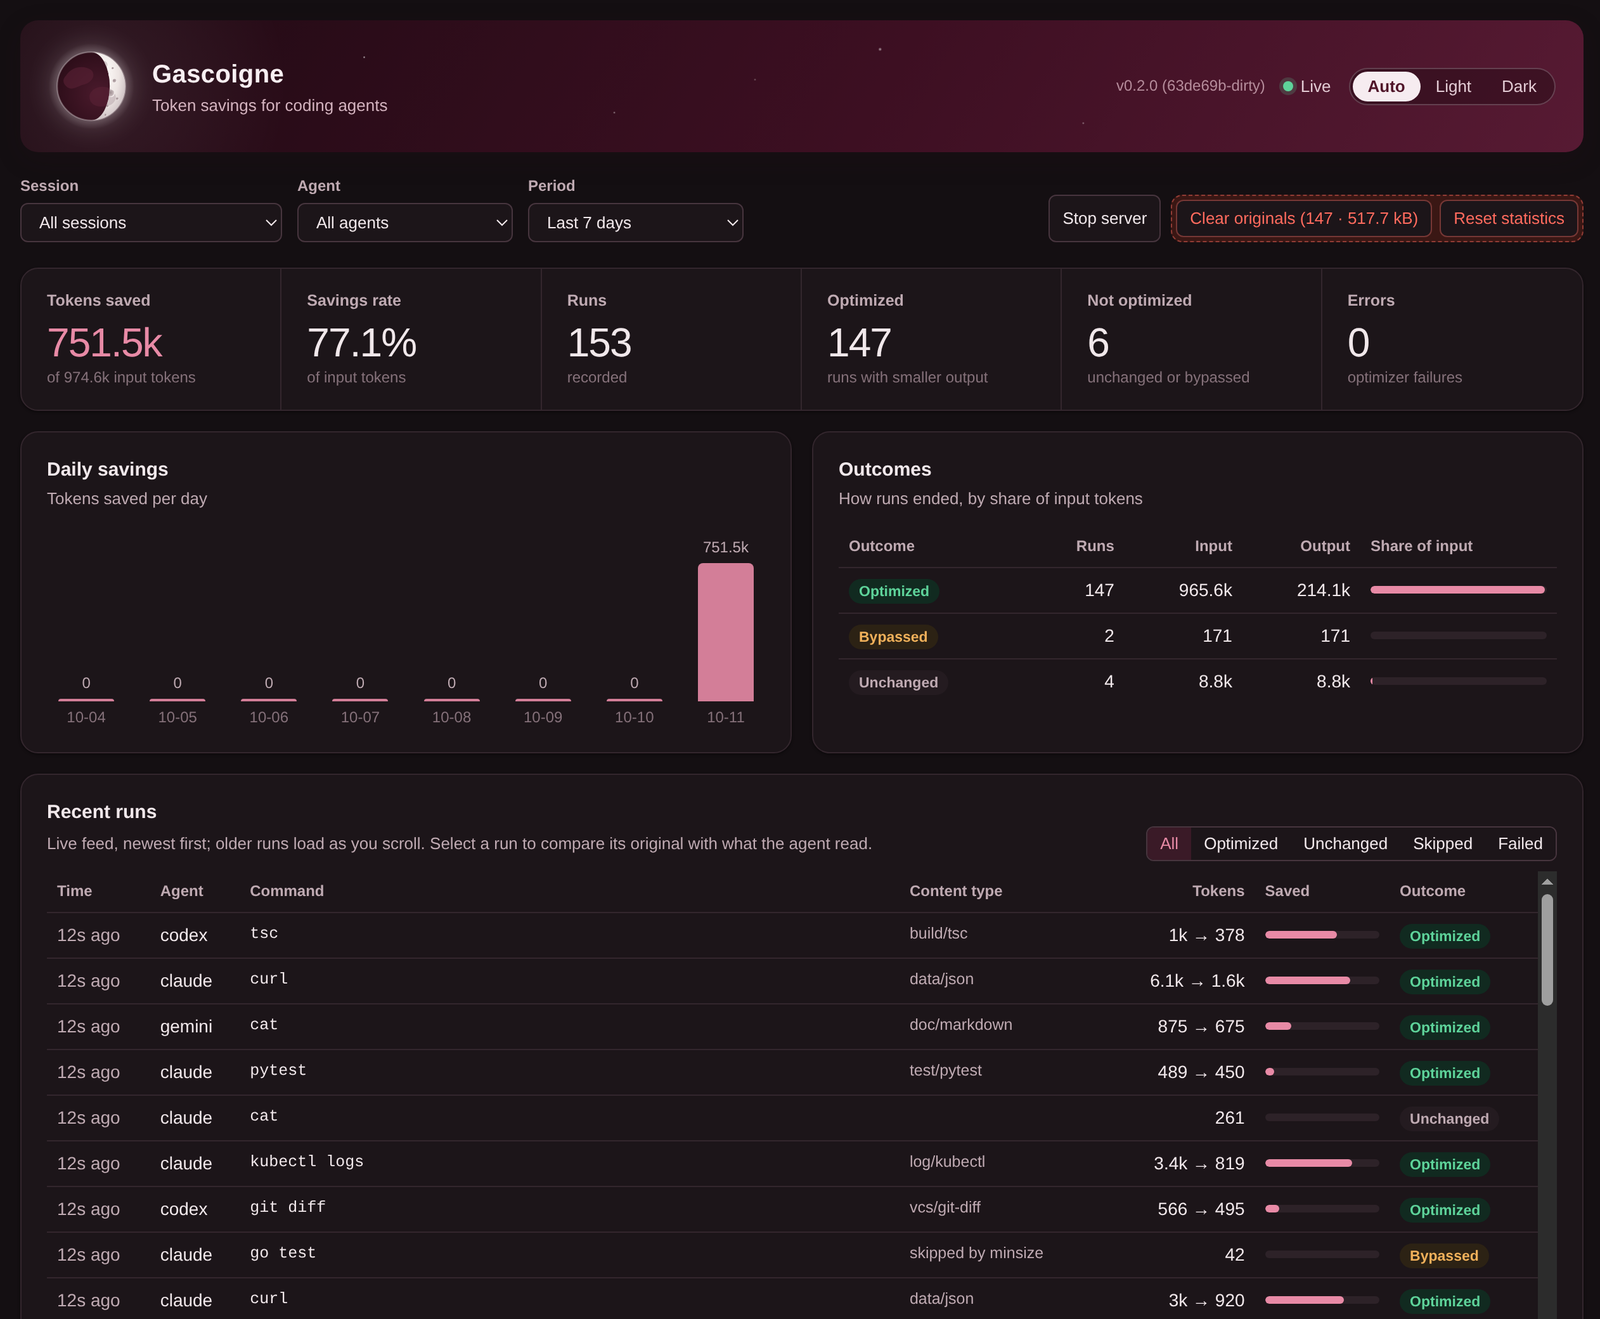
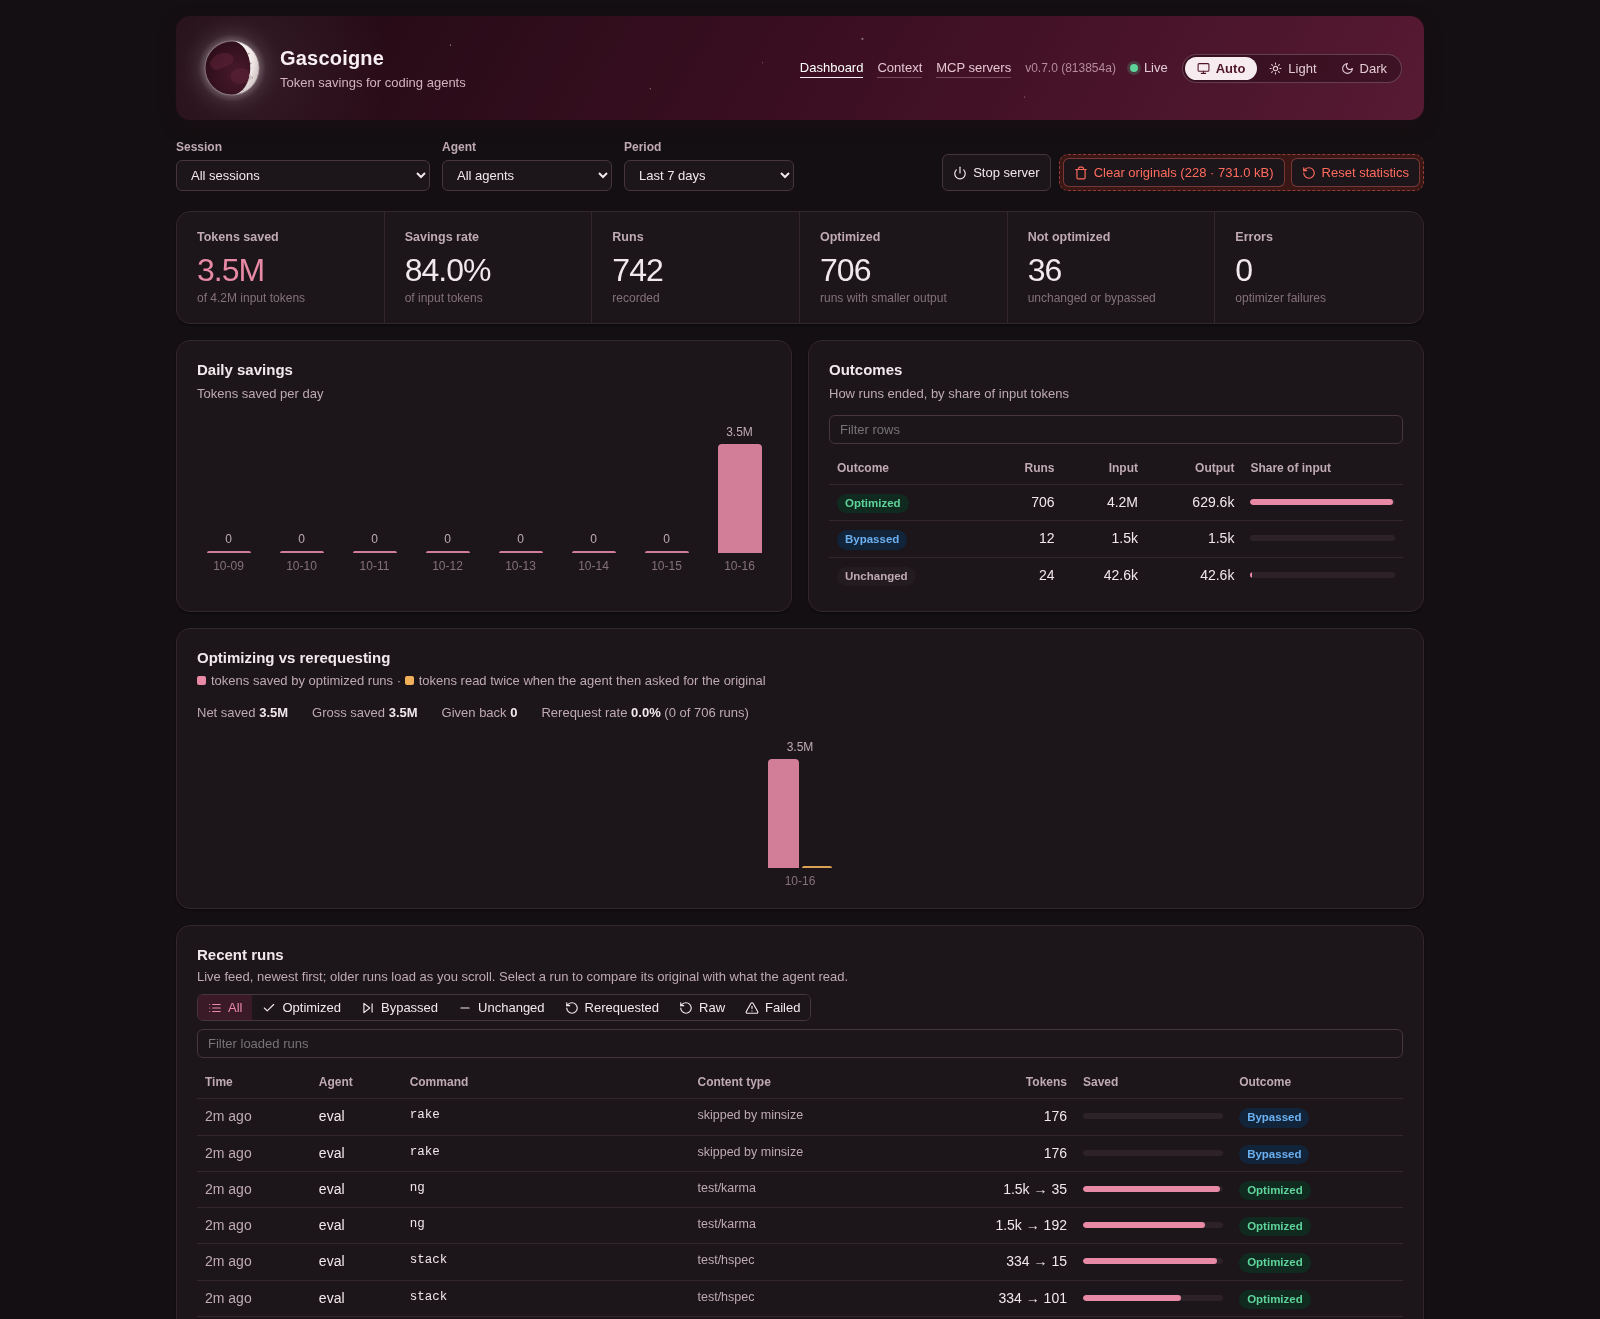
Base every number on the eval, refresh the dashboard screenshots
The headline tiles now give the median (62%) and the total (81%) of the
244 eval cases with the middle half (39 to 82%), instead of a 70 to 99%
range and figures from real sessions and prices. Three table rows follow
the current eval, the aside lists medians by area, and the release
check is described as hourly. The dashboard screenshots come from an
eval run on 0.7.0.

diff --git a/index.html b/index.html
@@ -374,22 +374,22 @@ Use the aws_s3_bucket_acl <span class="tk-kw">resource</span> instead
   <p class="slogan"><b>Telemetry first.</b> Every saving is measured before it is claimed: the ledger records each
     original and each optimized result, and the local dashboard and <code>gascoigne tokens</code> show the numbers.</p>
   <ul class="benefits">
-    <li><strong>70–99%</strong><b>Fewer tokens</b>
-      <span>off verbose output: installs, test runs, logs, traces. The median eval case shrinks by 69%.</span></li>
-    <li><strong>$31<small>/MTok</small></strong><b>Lower cost</b>
-      <span>a saved token's worth on Opus 5.5: each tool result is re-read by a median 110 later requests.</span></li>
-    <li><strong>4–27%</strong><b>Longer sessions</b>
-      <span>less tool output per real coding session (median 10%), so the context window fills more slowly.</span></li>
+    <li><strong>62%</strong><b>Median saving</b>
+      <span>of the 244 eval cases. Outputs under 200 tokens pass through untouched.</span></li>
+    <li><strong>81%</strong><b>Of all eval tokens</b>
+      <span>1.43M tokens in, 0.28M out. The biggest outputs are also the noisiest, so the total is higher than the median.</span></li>
+    <li><strong>39–82%</strong><b>Middle half of cases</b>
+      <span>a quarter of cases save less than 39%, 16 are not shortened. It depends on the tool.</span></li>
     <li><strong>1 call</strong><b>Nothing lost</b>
       <span>every original is stored first; <code>gascoigne raw &lt;id&gt;</code> brings it back, whole or just the lines you need.</span></li>
     <li><strong>Local</strong><b>Stays on your machine</b>
-      <span>the ledger and dashboard are local; nothing is sent anywhere except an optional daily release check you can <a href="releases/0.3.0/#notice">turn off</a>.</span></li>
+      <span>the ledger and dashboard are local; nothing is sent anywhere except an optional hourly release check you can <a href="releases/0.3.0/#notice">turn off</a>.</span></li>
     <li><strong>Same output</strong><b>Deterministic</b>
       <span>for the same input, every time, so prompt caches stay warm, through the LLM proxy too.</span></li>
   </ul>
-  <p class="fine">Eval numbers are an upper bound for the tools gascoigne knows; the real-use and cost figures
-    come from Claude Code sessions. Details under <a href="#savings">what it saves</a> and in
-    <a href="https://github.com/gascoigne-ai/gascoigne-cli/blob/master/docs/cost.md">cost</a>.</p>
+  <p class="fine">All numbers on this page come from the eval fixtures (<code>make eval</code>): real-shaped output of
+    the tools gascoigne knows. Read them as an upper bound for those tools, not a forecast for your sessions.
+    Details under <a href="#savings">what it saves</a>; <code>gascoigne gain</code> shows your own.</p>
 
   <div class="oss" id="open-source">
     <h3>Open source, free to use</h3>
@@ -404,7 +404,7 @@ Use the aws_s3_bucket_acl <span class="tk-kw">resource</span> instead
         <a href="https://github.com/gascoigne-ai">github.com/gascoigne-ai</a>. Ideas taken from other projects are
         credited under <a href="#inspirations">standing on good ideas</a>.</li>
     </ul>
-    <p class="fine">Privacy: the ledger and dashboard stay on your machine. The one optional request, a daily read of a small release file from this site, can be <a href="releases/0.3.0/#notice">turned off</a>.</p>
+    <p class="fine">Privacy: the ledger and dashboard stay on your machine. The one optional request, an hourly read of a small release file from this site, can be <a href="releases/0.3.0/#notice">turned off</a>.</p>
   </div>
 </section>
 
@@ -695,8 +695,8 @@ Use the aws_s3_bucket_acl <span class="tk-kw">resource</span> instead
   <article class="feat" id="dashboard">
     <figure class="shot-fig">
       <picture>
-        <source srcset="assets/dashboard-dark.png" media="(prefers-color-scheme: dark)">
-        <img class="shot" src="assets/dashboard-light.png" width="1600" height="1319" loading="lazy"
+        <source srcset="assets/dashboard-dark.png?v=20261016" media="(prefers-color-scheme: dark)">
+        <img class="shot" src="assets/dashboard-light.png?v=20261016" width="1600" height="1319" loading="lazy"
           alt="The gascoigne dashboard: savings over time, top commands and optimizers, and a list of recent runs.">
       </picture>
     </figure>
@@ -707,6 +707,7 @@ Use the aws_s3_bucket_acl <span class="tk-kw">resource</span> instead
         Tables are grouped into tabs, and experimental features that are on get their own panel.</p>
       <p><code>gascoigne gain</code> prints the same in the terminal, with cost.</p>
       <p class="fact">Its moon shows your savings rate</p>
+      <p class="fine">Screenshot: the dashboard after <code>gascoigne eval -record</code> on the eval fixtures. Every case runs twice there, so run counts are doubled.</p>
     </div>
   </article>
 </section>
@@ -719,7 +720,7 @@ Use the aws_s3_bucket_acl <span class="tk-kw">resource</span> instead
     into your app. Apache-2.0, same as the CLI.</p>
 
   <ul class="stats tight">
-    <li><strong>99%</strong><span>off a noisy log: 12,025 → 142 tokens</span></li>
+    <li><strong>12,025 → 142</strong><span>tokens in the SDK's noisy-log example; other outputs save less</span></li>
     <li><strong>6</strong><span>languages</span></li>
     <li><strong>3</strong><span>ways to hook in</span></li>
     <li><strong>15</strong><span>framework demos</span></li>
@@ -887,7 +888,7 @@ Gascoigne gascoigne = Gascoigne.<span class="tk-fn">builder</span>().<span class
       <figure class="sdk-strip anim" role="img" aria-label="Animation: the tool result of 12,025 tokens shrinks to the 142 tokens the model reads.">
         <div class="row"><span class="lab">Tool result</span><span class="track"><i class="full"></i></span><span class="val">12,025 tokens</span></div>
         <div class="row"><span class="lab">Model reads</span><span class="track"><i class="shrink"></i></span><span class="val sw"><span class="b">12,025 tokens</span><span class="a">142 tokens</span></span></div>
-        <figcaption>The SDK README's noisy log: saved 99%, original one <code>raw</code> call away.</figcaption>
+        <figcaption>The SDK README's noisy log, one example: 12,025 → 142 tokens, original one <code>raw</code> call away.</figcaption>
       </figure>
       <div class="sdk-meta" data-lang="python">
         <div class="sdk-install">
@@ -973,13 +974,13 @@ Gascoigne gascoigne = Gascoigne.<span class="tk-fn">builder</span>().<span class
       <tr><td><svg class="moon" data-saved="0.956" width="26" height="26" aria-hidden="true"></svg></td><td><code>cat churn.ipynb</code> (notebook)</td><td class="n">20,144</td><td class="n">896</td><td class="n">95.6%</td></tr>
       <tr><td><svg class="moon" data-saved="0.948" width="26" height="26" aria-hidden="true"></svg></td><td><code>go test</code> timeout (goroutine dump)</td><td class="n">7,478</td><td class="n">388</td><td class="n">94.8%</td></tr>
       <tr><td><svg class="moon" data-saved="0.932" width="26" height="26" aria-hidden="true"></svg></td><td>CodeQL SARIF report</td><td class="n">15,590</td><td class="n">1,065</td><td class="n">93.2%</td></tr>
-      <tr><td><svg class="moon" data-saved="0.907" width="26" height="26" aria-hidden="true"></svg></td><td><code>kubectl logs</code> (JSON)</td><td class="n">23,171</td><td class="n">2,156</td><td class="n">90.7%</td></tr>
-      <tr><td><svg class="moon" data-saved="0.873" width="26" height="26" aria-hidden="true"></svg></td><td><code>aws ec2 describe-instances</code></td><td class="n">33,835</td><td class="n">4,301</td><td class="n">87.3%</td></tr>
+      <tr><td><svg class="moon" data-saved="0.907" width="26" height="26" aria-hidden="true"></svg></td><td><code>kubectl logs</code> (JSON)</td><td class="n">23,171</td><td class="n">2,159</td><td class="n">90.7%</td></tr>
+      <tr><td><svg class="moon" data-saved="0.874" width="26" height="26" aria-hidden="true"></svg></td><td><code>aws ec2 describe-instances</code></td><td class="n">33,835</td><td class="n">4,275</td><td class="n">87.4%</td></tr>
       <tr><td><svg class="moon" data-saved="0.841" width="26" height="26" aria-hidden="true"></svg></td><td><code>terraform plan</code></td><td class="n">10,663</td><td class="n">1,697</td><td class="n">84.1%</td></tr>
       <tr><td><svg class="moon" data-saved="0.743" width="26" height="26" aria-hidden="true"></svg></td><td><code>kubectl get pods -o yaml</code></td><td class="n">37,330</td><td class="n">9,609</td><td class="n">74.3%</td></tr>
       <tr><td><svg class="moon" data-saved="0.724" width="26" height="26" aria-hidden="true"></svg></td><td><code>git log</code></td><td class="n">4,173</td><td class="n">1,151</td><td class="n">72.4%</td></tr>
       <tr><td><svg class="moon" data-saved="0.604" width="26" height="26" aria-hidden="true"></svg></td><td>browser snapshot (accessibility tree)</td><td class="n">6,569</td><td class="n">2,601</td><td class="n">60.4%</td></tr>
-      <tr><td><svg class="moon" data-saved="0.562" width="26" height="26" aria-hidden="true"></svg></td><td><code>cat lib/benchmark.rb</code> (comments)</td><td class="n">6,390</td><td class="n">2,800</td><td class="n">56.2%</td></tr>
+      <tr><td><svg class="moon" data-saved="0.727" width="26" height="26" aria-hidden="true"></svg></td><td><code>cat lib/benchmark.rb</code> (comments)</td><td class="n">6,390</td><td class="n">1,746</td><td class="n">72.7%</td></tr>
           <tr><td><svg class="moon" data-saved="0.304" width="26" height="26" aria-hidden="true"></svg></td><td><code>git diff</code> of source edits</td><td class="n">3,430</td><td class="n">2,386</td><td class="n">30.4%</td></tr>
       <tr><td><svg class="moon" data-saved="0.275" width="26" height="26" aria-hidden="true"></svg></td><td><code>pytest</code> with one failure</td><td class="n">899</td><td class="n">652</td><td class="n">27.5%</td></tr>
       <tr><td><svg class="moon" data-saved="0.16" width="26" height="26" aria-hidden="true"></svg></td><td><code>rg</code> search</td><td class="n">3,161</td><td class="n">2,655</td><td class="n">16.0%</td></tr>
@@ -989,18 +990,17 @@ Gascoigne gascoigne = Gascoigne.<span class="tk-fn">builder</span>().<span class
   </table>
   </div>
   <div class="savings-side">
-  <p class="aside">Across all 268 eval cases the median output shrinks by 69%, and 82% of all tokens
-    go, because the largest outputs are also the noisiest; 9 cases are not shortened at all. Outputs under
-    200 tokens pass through untouched. The fixtures are real-shaped samples of the tools gascoigne
-    knows, so read them as an upper bound for those tools, not a forecast for your sessions.</p>
-  <h3 class="realuse">In real use</h3>
-  <p class="intro">Over three days of developing gascoigne itself with Claude Code (over 8,000 tool results),
-    web pages and API responses read with <code>fetch</code> came out 93–99% smaller than the raw
-    response, <code>git show</code> 80%, <code>go test</code> 69% and <code>cat</code> of source
-    files 38%, while targeted reads such as <code>sed -n</code> ranges and <code>rg</code> saved
-    1–3%. Per coding session, tool output was 4–27% smaller (median 10%): most of the work was
-    reading and editing code. Tool output is only part of what the model reads on every turn, so
-    your bill drops by less than that. <code>gascoigne gain</code> shows your own numbers.</p>
+  <p class="aside">Across the 244 eval cases the median output shrinks by 62%, and 81% of all tokens go, because
+    the largest outputs are also the noisiest. The middle half of cases sits between 39% and 82%; 16 cases are
+    not shortened at all, and outputs under 200 tokens pass through untouched. The fixtures are real-shaped
+    samples of the tools gascoigne knows, so read them as an upper bound for those tools, not a forecast for
+    your sessions.</p>
+  <h3 class="realuse">By area</h3>
+  <p class="intro">Median saving per group of fixtures: logs 94% (13 cases), Go tooling 89% (8), cloud CLIs 87%
+    (7), test runners 71% (28), package managers 66% (20), databases 63% (9), git 50% (13), build tools 50% (37),
+    tables such as <code>ps</code> and <code>ss</code> 42% (9), docs 39% (9), and <code>cat</code> of source
+    files 35% (16). Targeted reads such as <code>rg</code> and short outputs have little to cut.
+    <code>gascoigne gain</code> shows what your own sessions save.</p>
   <p class="fine">Tokens are a BPE-style estimate, within ~10% of a real tokenizer. Fixtures in
     <code>testdata/eval</code>, measured with <code>make eval</code>.</p>
   </div>
@@ -1032,7 +1032,7 @@ Gascoigne gascoigne = Gascoigne.<span class="tk-fn">builder</span>().<span class
 <section id="families">
   <h2>One knife, sixteen blades</h2>
   <p class="intro">gascoigne carries a blade for each job and folds out the right one on its own. It
-    recognizes output by family and tool (more than 110 tools), then hands it to the engine that knows
+    recognizes output by family and tool (over 150 tools and formats), then hands it to the engine that knows
     what that output is for. Stack traces fold the same way in every family.</p>
   <dl class="families">
     <div><dt>test</dt><dd><span class="does">keeps failures and the summary, counts the passes.</span> <span class="tools">go, jest, vitest, bun, mocha, deno, pytest, cargo, rspec, maven, dotnet, JUnit XML, coverage</span></dd></div>
